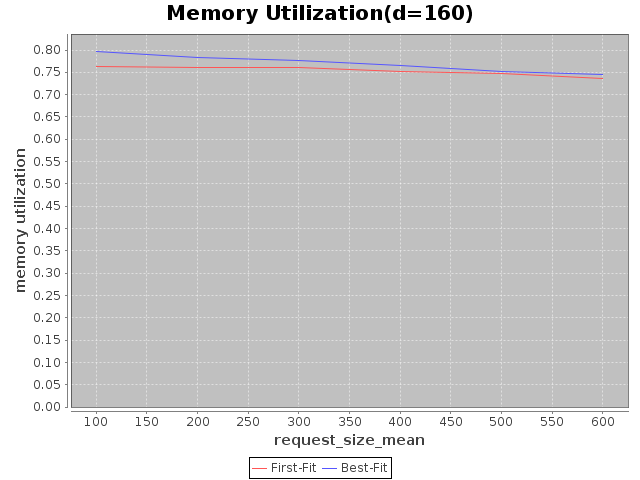
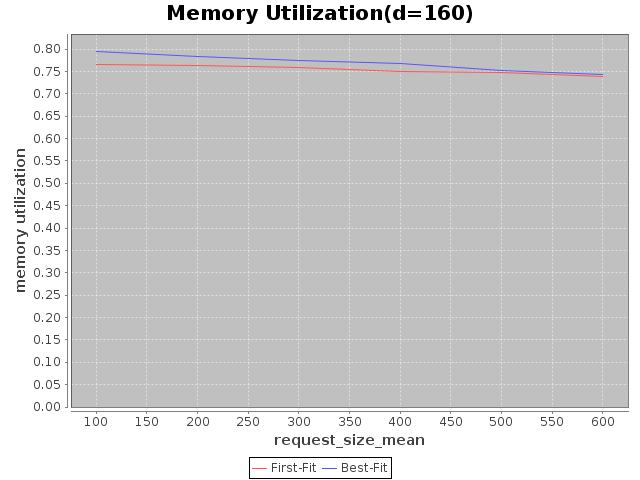
Update

diff --git a/cs143b/src/main/java/mm/core/MMManager.java b/cs143b/src/main/java/mm/core/MMManager.java
@@ -149,7 +149,7 @@ public class MMManager {
 		}
 
 		// debug
-		boolean debug = true;
+		boolean debug = false;
 		if (debug) {
 			System.out.print("Request " + size + " in [" + newHoleStartIdx
 					+ "," + newHoleEndIdx + "], ");
@@ -241,7 +241,8 @@ public class MMManager {
 			right = 1;
 		else
 			right = memoryBlock.unpack(curHoleEnd);
-
+		
+		boolean debug = false;
 		// 2. check
 		if (left >= 0 && right >= 0) {
 			// 2.1. both are occupied
@@ -261,9 +262,12 @@ public class MMManager {
 				lastHole = curHoleStart;
 			}
 			setNextHole(lastHole, -1);
-
-			System.out.println("Release " + blockSize + " in [" + curHoleStart
+			
+			if(debug){
+				System.out.println("Release " + blockSize + " in [" + curHoleStart
 					+ "," + curHoleEnd + "]");
+			}
+			
 			return curHoleStart;
 		} else if (left >= 0 && right < 0) {
 			// 2.2. left is occupid but right is not - merge with right hole
@@ -288,9 +292,12 @@ public class MMManager {
 			}
 			if (curHoleEnd == lastHole)
 				lastHole = curHoleStart;
-
-			System.out.println("Release " + blockSize + " in [" + curHoleStart
-					+ "," + rightHoleEnd + "]");
+			
+			if(debug){
+				System.out.println("Release " + blockSize + " in [" + curHoleStart
+						+ "," + rightHoleEnd + "]");
+			}
+			
 			return curHoleStart;
 		} else if (left < 0 && right >= 0) {
 			// 2.3. left is not occupid but right is - merge with left hole
@@ -301,9 +308,12 @@ public class MMManager {
 			memoryBlock.pack(-newBlockSize, leftHoleStart);
 			memoryBlock.pack(-newBlockSize, curHoleEnd - INTEGER_SIZE
 					* TAG_SIZE);
-
-			System.out.println("Release " + blockSize + " in [" + leftHoleStart
-					+ "," + curHoleEnd + "]");
+			
+			if(debug){
+				System.out.println("Release " + blockSize + " in [" + leftHoleStart
+						+ "," + curHoleEnd + "]");
+			}
+			
 			return leftHoleStart;
 		} else {
 			// 2.4. both are not occupied - merge with left and right holes
@@ -317,9 +327,11 @@ public class MMManager {
 					* TAG_SIZE);
 			// (2). remove right hole
 			removeHole(curHoleEnd);
-
-			System.out.println("Release " + blockSize + " in [" + leftHoleStart
-					+ "," + rightHoleEnd + "]");
+			
+			if(debug){
+				System.out.println("Release " + blockSize + " in [" + leftHoleStart
+						+ "," + rightHoleEnd + "]");
+			}
 			return leftHoleStart;
 		}
 	}

diff --git a/cs143b/src/main/java/driver/MMDriver.java b/cs143b/src/main/java/driver/MMDriver.java
@@ -10,7 +10,7 @@ import mm.core.Result;
 
 public class MMDriver {
 	
-	public static Random random = new Random(100);
+	public static Random random = new Random(0);
 	public static MMManager mmm = new MMManager();
 	
 	public final static int simSteps = 10000;
@@ -88,9 +88,9 @@ public class MMDriver {
 
 			allocatedBlocks.remove(p);
 			mmm.printOccupiedBlock(allocatedBlocks);
-			System.out.println("Utilization: " + utilization);
-			System.out.println("SearchRatio: " + searchRatio);
-			System.out.println();
+//			System.out.println("Utilization: " + utilization);
+//			System.out.println("SearchRatio: " + searchRatio);
+//			System.out.println();
 		}
 		return new Result(utilization, searchRatio);
 	}
